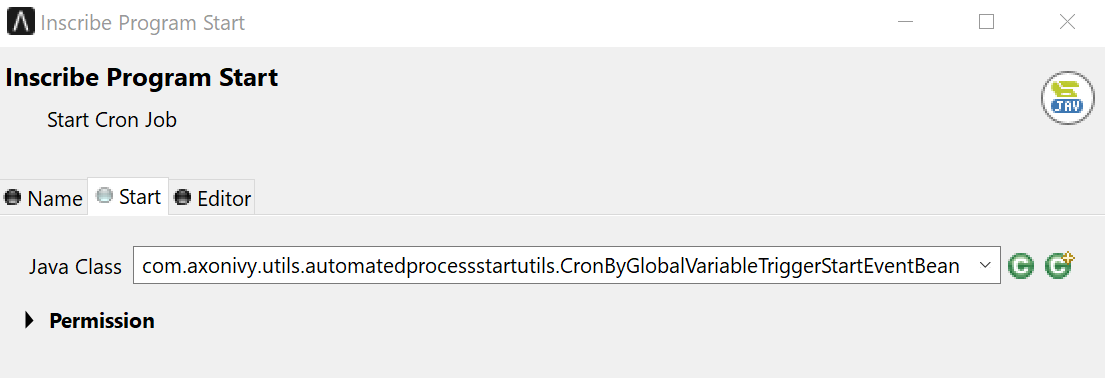
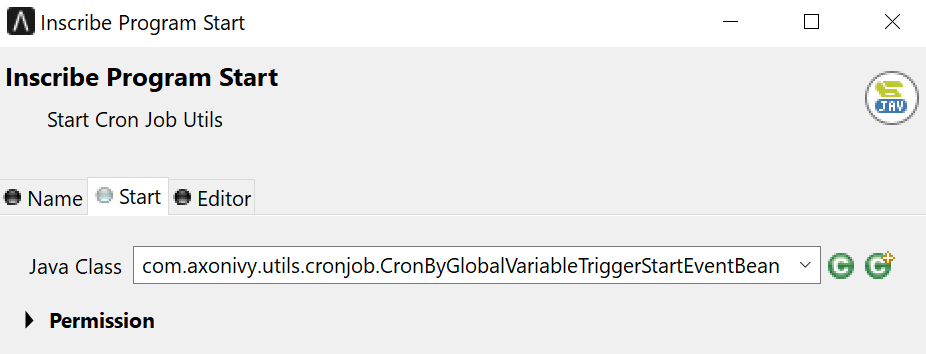
MARKET-272 Rename the globale variable

diff --git a/cronjob/src/com/axonivy/utils/cronjob/CronByGlobalVariableTriggerStartEventBean.java b/cronjob/src/com/axonivy/utils/cronjob/CronByGlobalVariableTriggerStartEventBean.java
@@ -45,9 +45,7 @@ public class CronByGlobalVariableTriggerStartEventBean extends AbstractProcessSt
 	private static final Object SYN_OBJECT = new Object();
 	private static Map<String, Long> startedJobs = Collections.synchronizedMap(new HashMap<String, Long>());
 
-	/**
-	 * Default constructor
-	 */
+	
 	public CronByGlobalVariableTriggerStartEventBean() {
 		super("CronTrigger", "Description of CronTrigger");
 	}
@@ -173,23 +171,23 @@ public class CronByGlobalVariableTriggerStartEventBean extends AbstractProcessSt
 	 */
 	public static class Editor extends UiEditorExtension {
 
-		private IUiFieldEditor globalVariable;
+		private IUiFieldEditor variable;
 
 		
 		@Override
 		public void initUiFields(ExtensionUiBuilder ui) {
-			ui.label("Global Variable name").create();
-			globalVariable = ui.textField().create();
+			ui.label("Cron expression defined by the Variable name located in <project>/config/variables.yaml file").create();
+			variable = ui.textField().create();
 		}
 
 		@Override
 		public String getConfiguration() {
-			return globalVariable.getText();
+			return variable.getText();
 		}
 
 		@Override
 		public void setConfiguration(String configString) {
-			globalVariable.setText(configString);
+			variable.setText(configString);
 		}
 	}
 }
